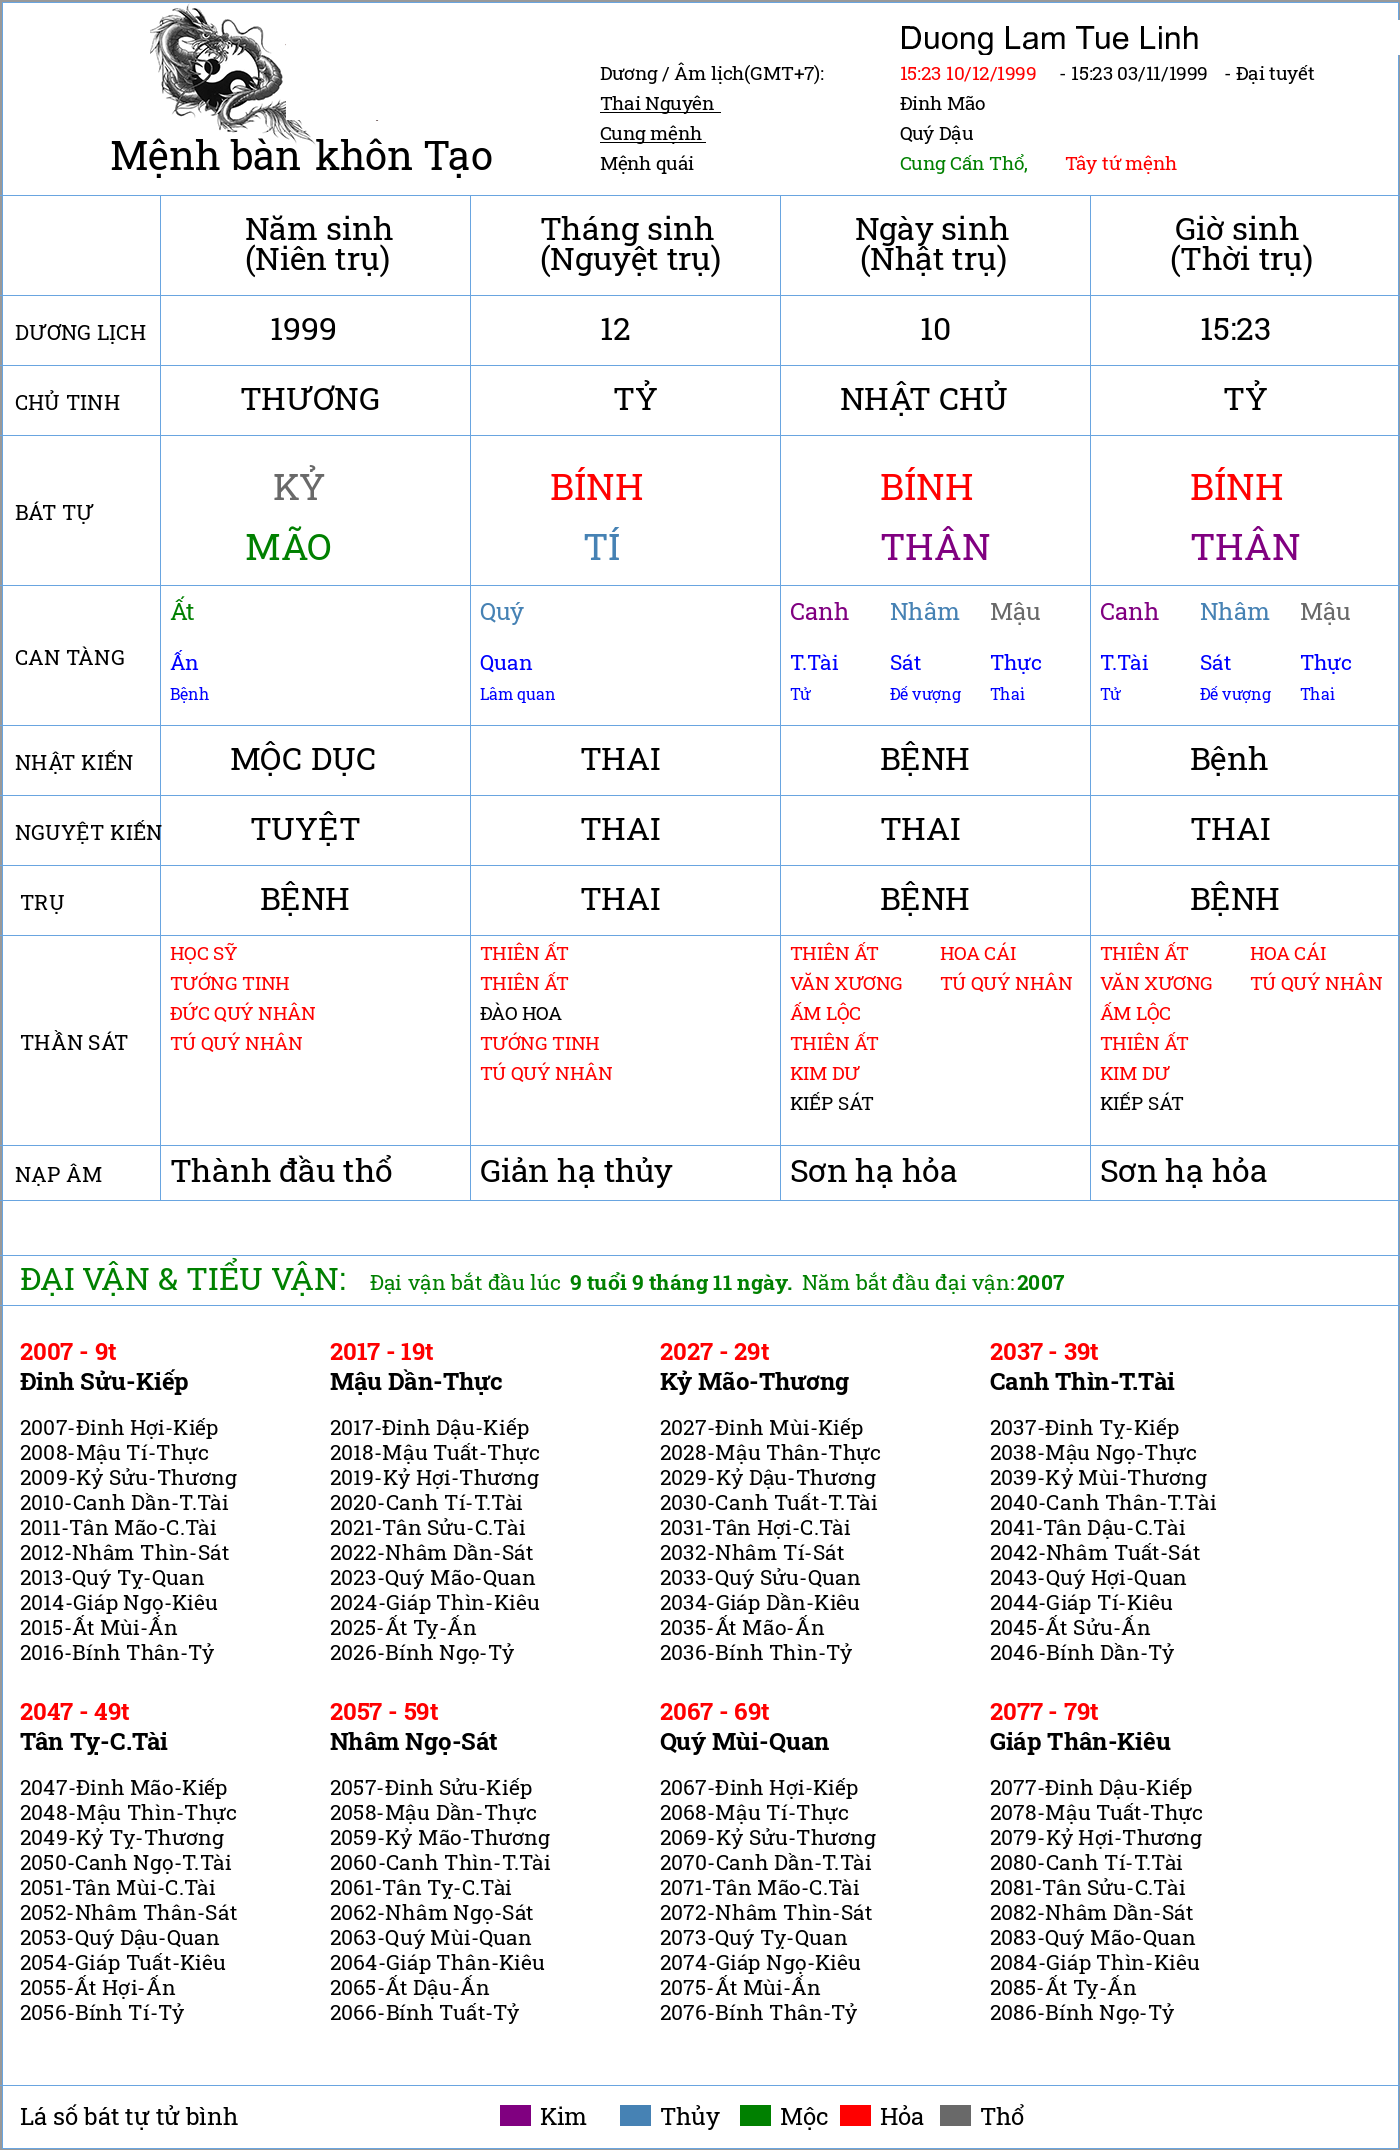
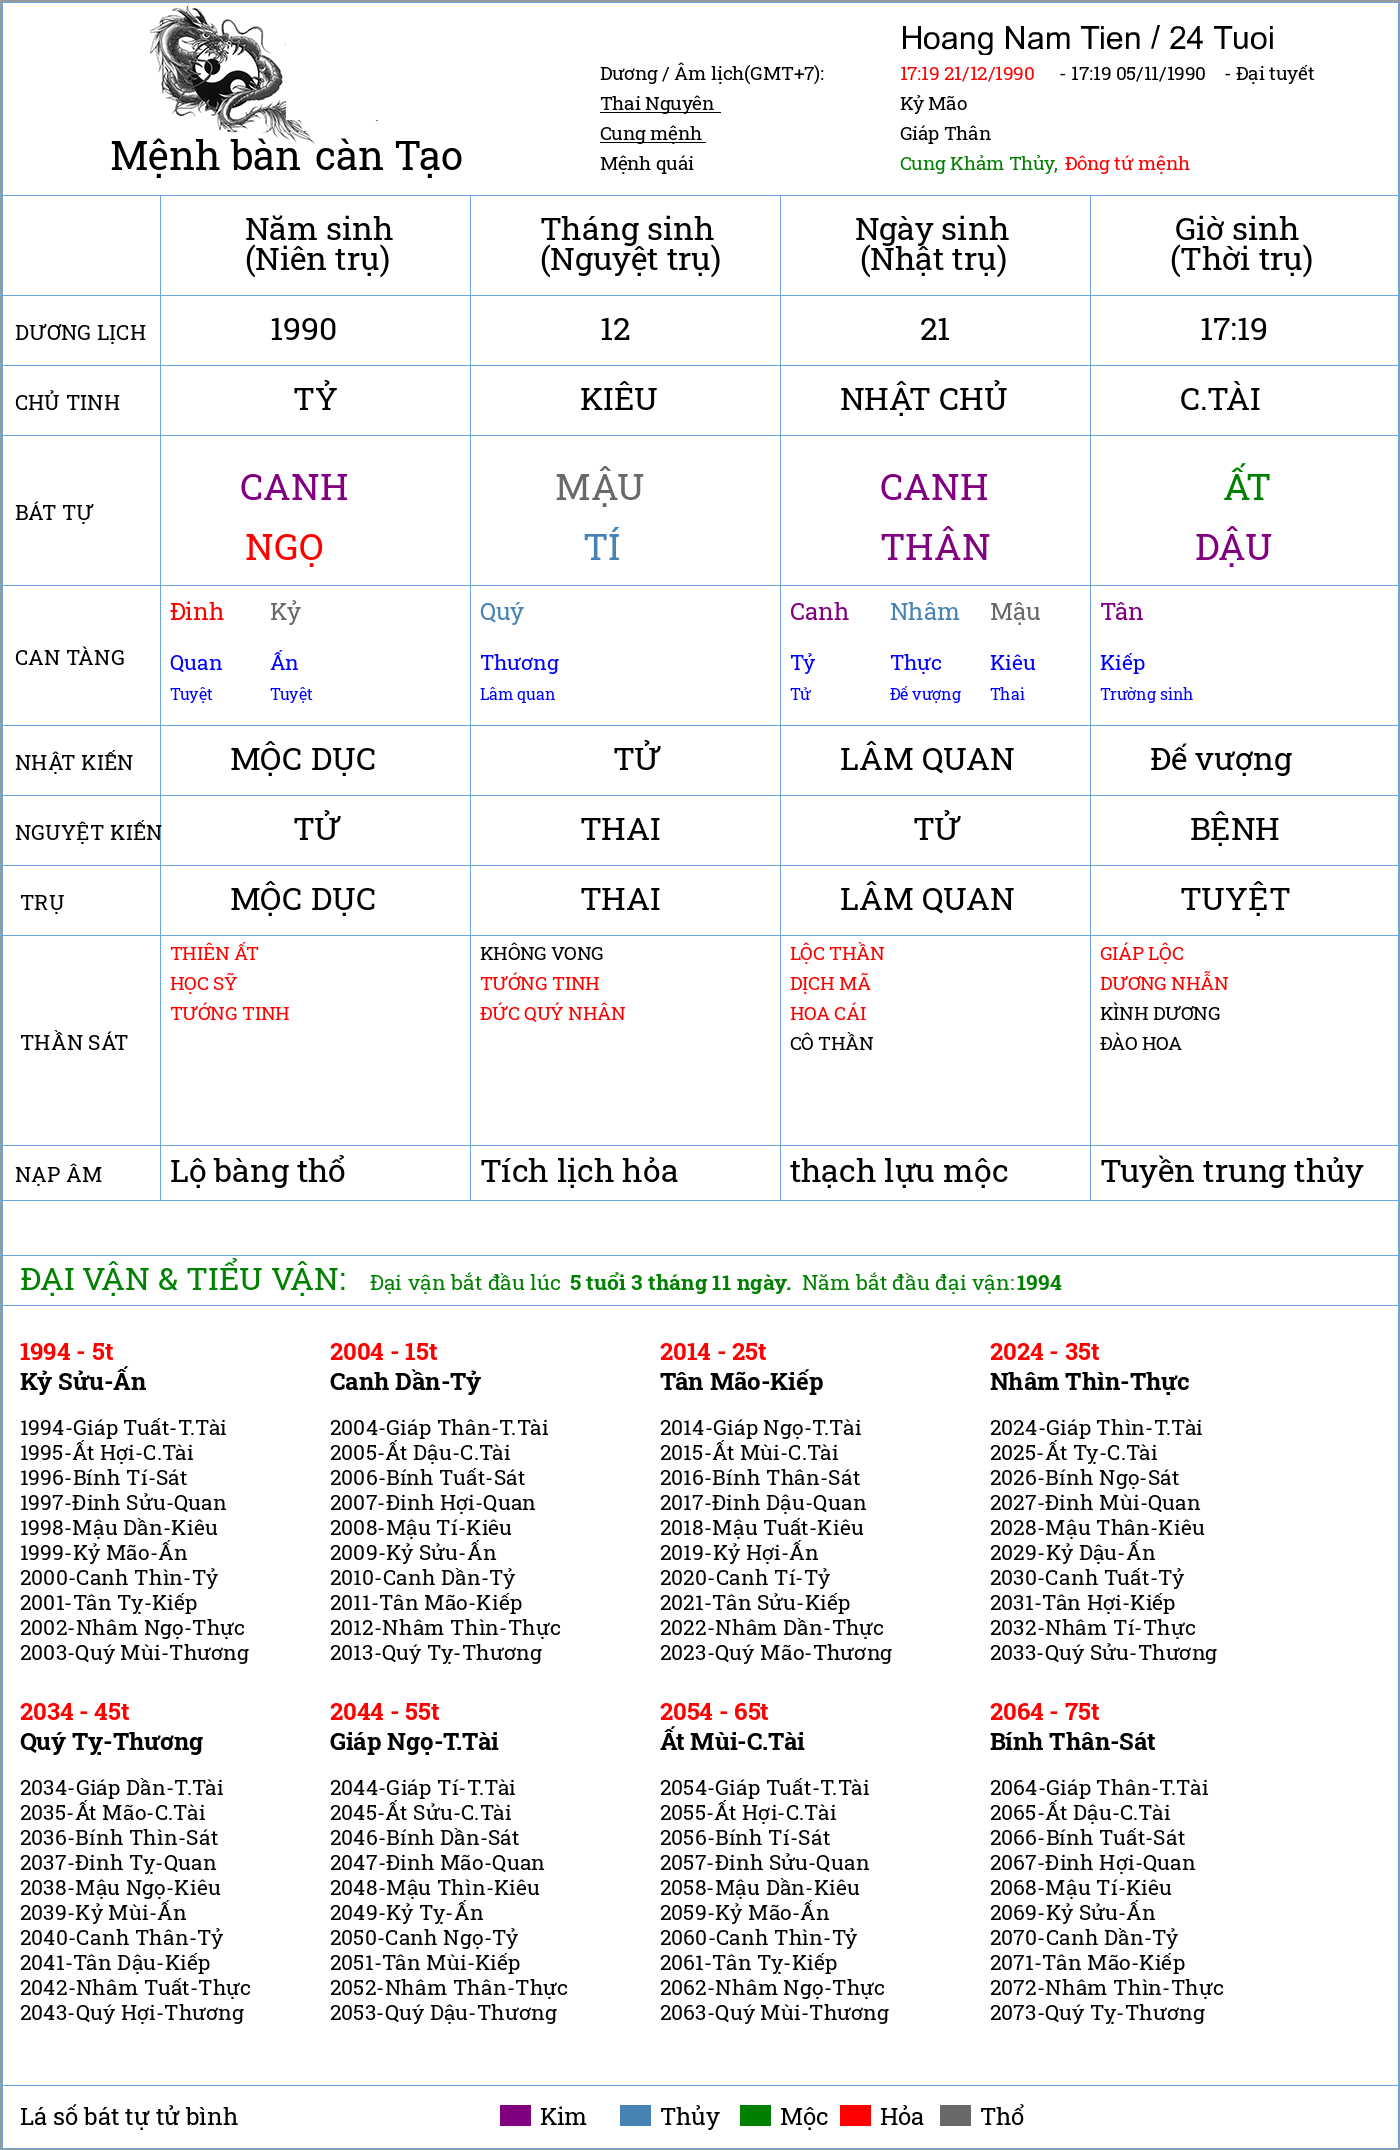
add get add

diff --git a/controllers/image.controller.js b/controllers/image.controller.js
@@ -1,13 +1,17 @@
 const Jimp = require('jimp');
 const { removeVietnameseAccents } = require('../helpers/format.string');
+const { getAge } = require('../helpers/utils');
 
 module.exports = {
   batTu: async (req, res) => {
+    const { img, day, month, year } = req.body;
+    const age = getAge(day, month, year);
+
     const fullName = removeVietnameseAccents(req.body.fullName);
 
     const font = await Jimp.loadFont(Jimp.FONT_SANS_32_BLACK);
     // Đọc ảnh
-    const buffer = Buffer.from(req.body.img, 'base64');
+    const buffer = Buffer.from(img, 'base64');
     const image = await Jimp.read(buffer);
 
     // Composite (kết hợp) lớp văn bản lên ảnh gốc
@@ -26,8 +30,8 @@ module.exports = {
     });
 
     //đổi tên
-    const textLayer4 = new Jimp(500, 35, 0xffffffff);
-    textLayer4.print(font, 0, 0, fullName);
+    const textLayer4 = new Jimp(498, 35, 0xffffffff);
+    textLayer4.print(font, 0, 0, `${fullName} / ${age} Tuoi`);
     image.composite(textLayer4, 900, 20, {
       mode: Jimp.BLEND_DEST_OVER,
     });
@@ -47,13 +51,25 @@ module.exports = {
     });
   },
   tuVi: async (req, res) => {
-    const buffer = Buffer.from(req.body.img, 'base64');
+    const { img, day, month, year } = req.body;
+    const age = getAge(day, month, year);
+
+    const font = await Jimp.loadFont(Jimp.FONT_SANS_16_BLACK);
+
+    const buffer = Buffer.from(img, 'base64');
     const image = await Jimp.read(buffer);
     const textLayer = new Jimp(200, 25, 0xfffefbf6);
     image.composite(textLayer, 260, 570);
 
+    //thêm tuổi
+    const textLayer4 = new Jimp(60, 20, 0xfff4f0ed);
+    textLayer4.print(font, 5, 0, `${age} Tuoi`);
+    image.composite(textLayer4, 460, 297, {
+      mode: Jimp.BLEND_DEST_OVER,
+    });
+
     // Ghi ảnh đã chỉnh sửa ra file mới
-    //   await image.writeAsync('tv2.png');
+    // await image.writeAsync('tv2.png');
     // Chuyển đổi ảnh thành buffer
     const buffer1 = await image.getBufferAsync(Jimp.MIME_PNG);
 

diff --git a/helpers/utils.js b/helpers/utils.js
@@ -1,0 +1,23 @@
+function getAge(ngay, thang, nam) {
+  // Lấy ngày hiện tại
+  var ngayHienTai = new Date();
+
+  // Tạo đối tượng Date từ thông tin ngày sinh
+  var ngaySinh = new Date(nam, thang - 1, ngay);
+
+  // Tính toán số tuổi
+  var soTuoi = ngayHienTai.getFullYear() - ngaySinh.getFullYear();
+
+  // Kiểm tra xem đã qua sinh nhật chưa trong năm nay
+  if (
+    ngayHienTai.getMonth() < ngaySinh.getMonth() ||
+    (ngayHienTai.getMonth() === ngaySinh.getMonth() &&
+      ngayHienTai.getDate() < ngaySinh.getDate())
+  ) {
+    soTuoi--;
+  }
+
+  return soTuoi;
+}
+
+module.exports = { getAge };
